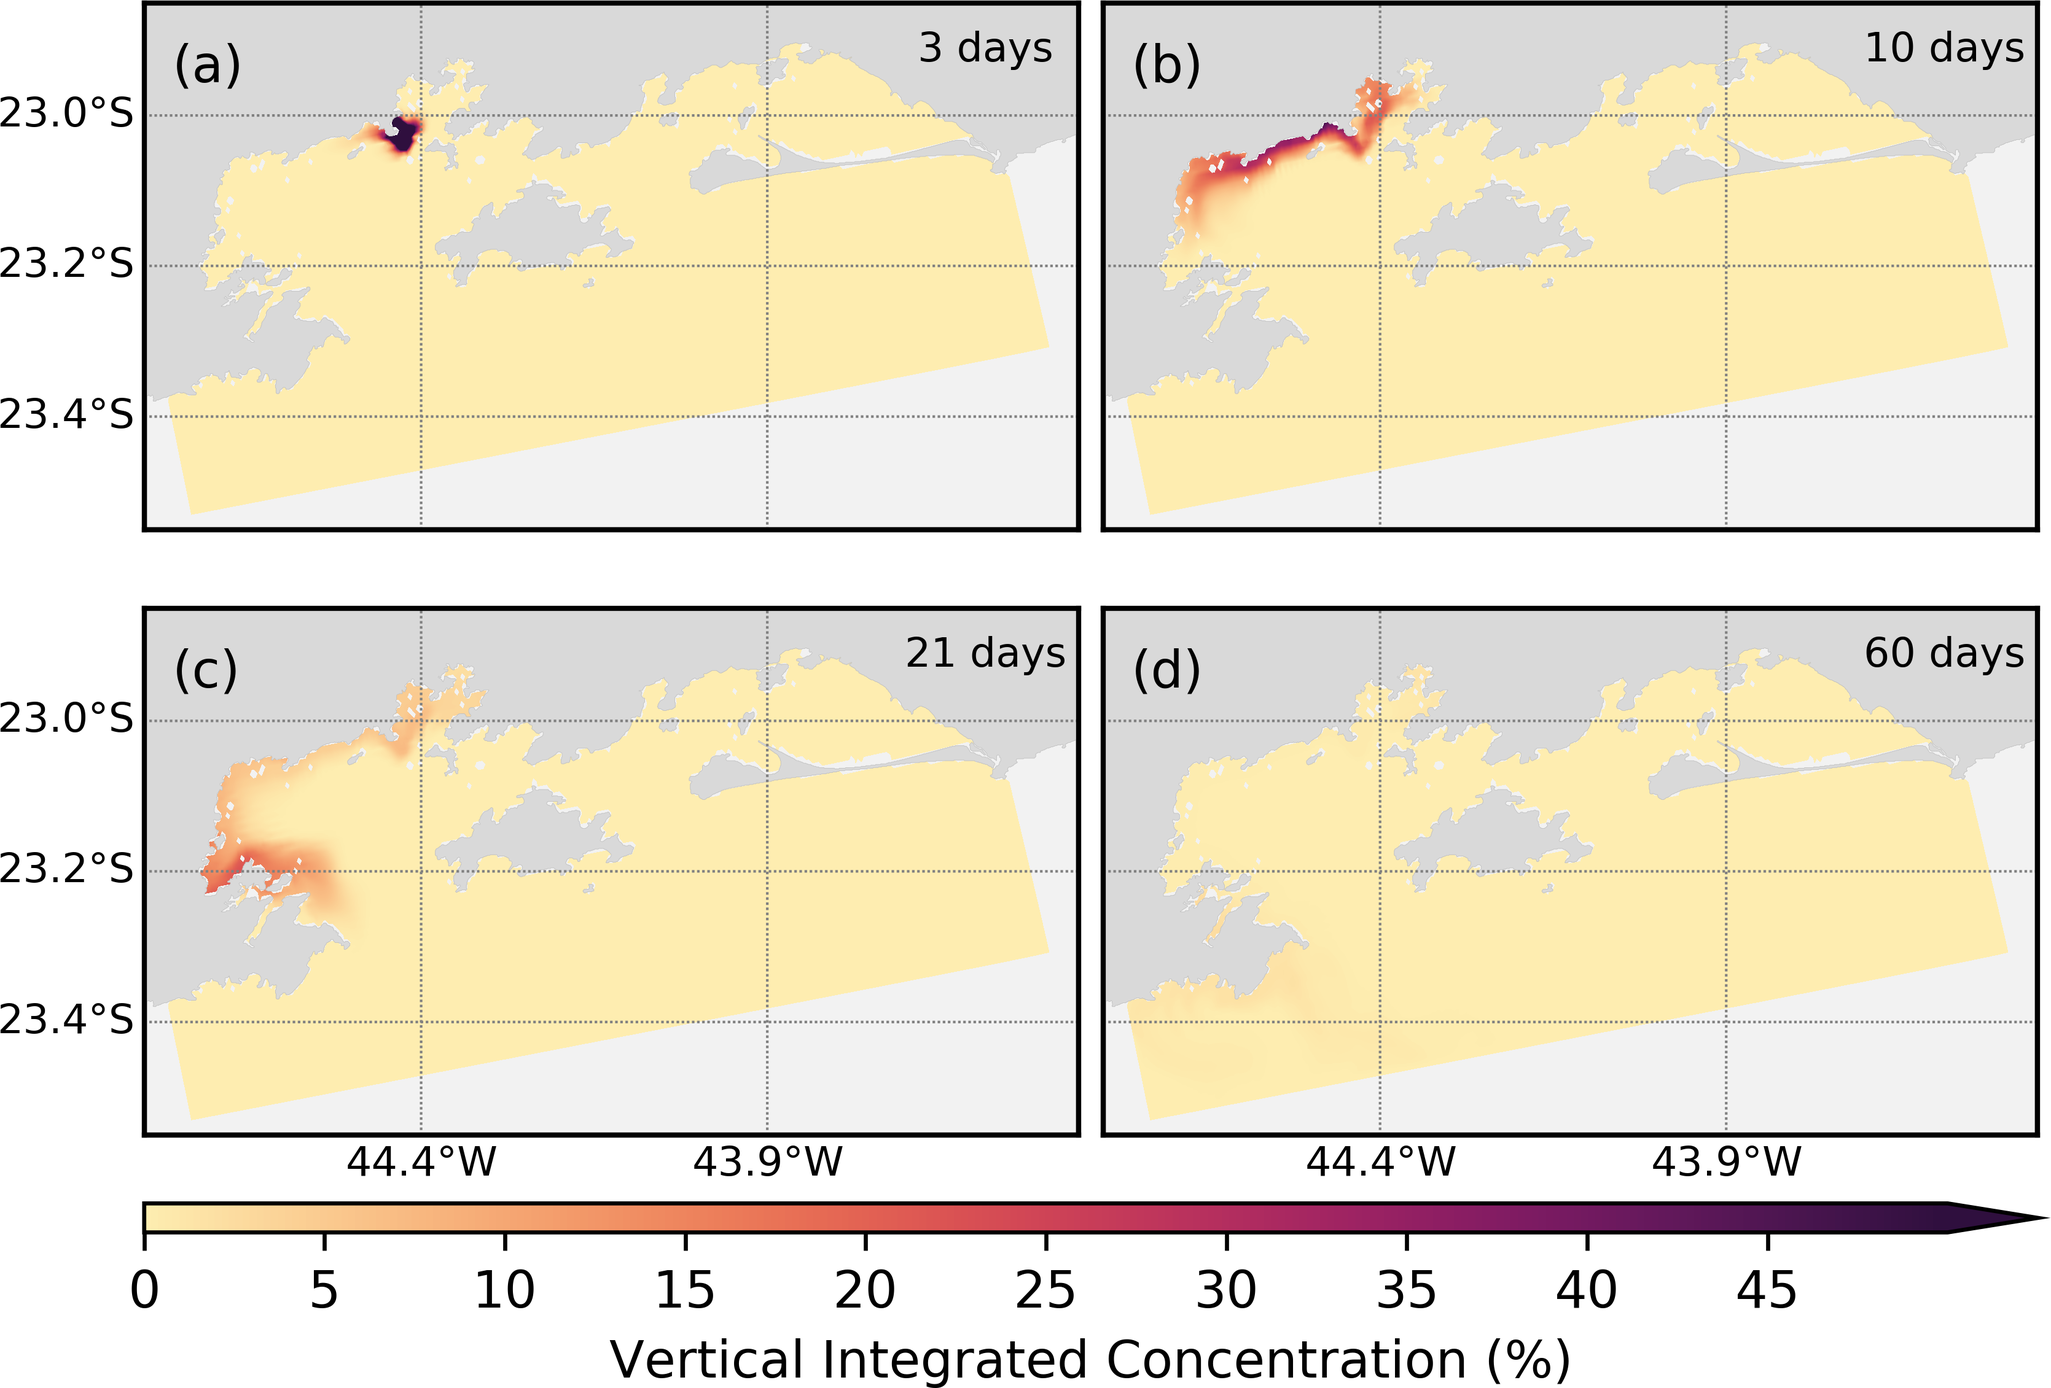
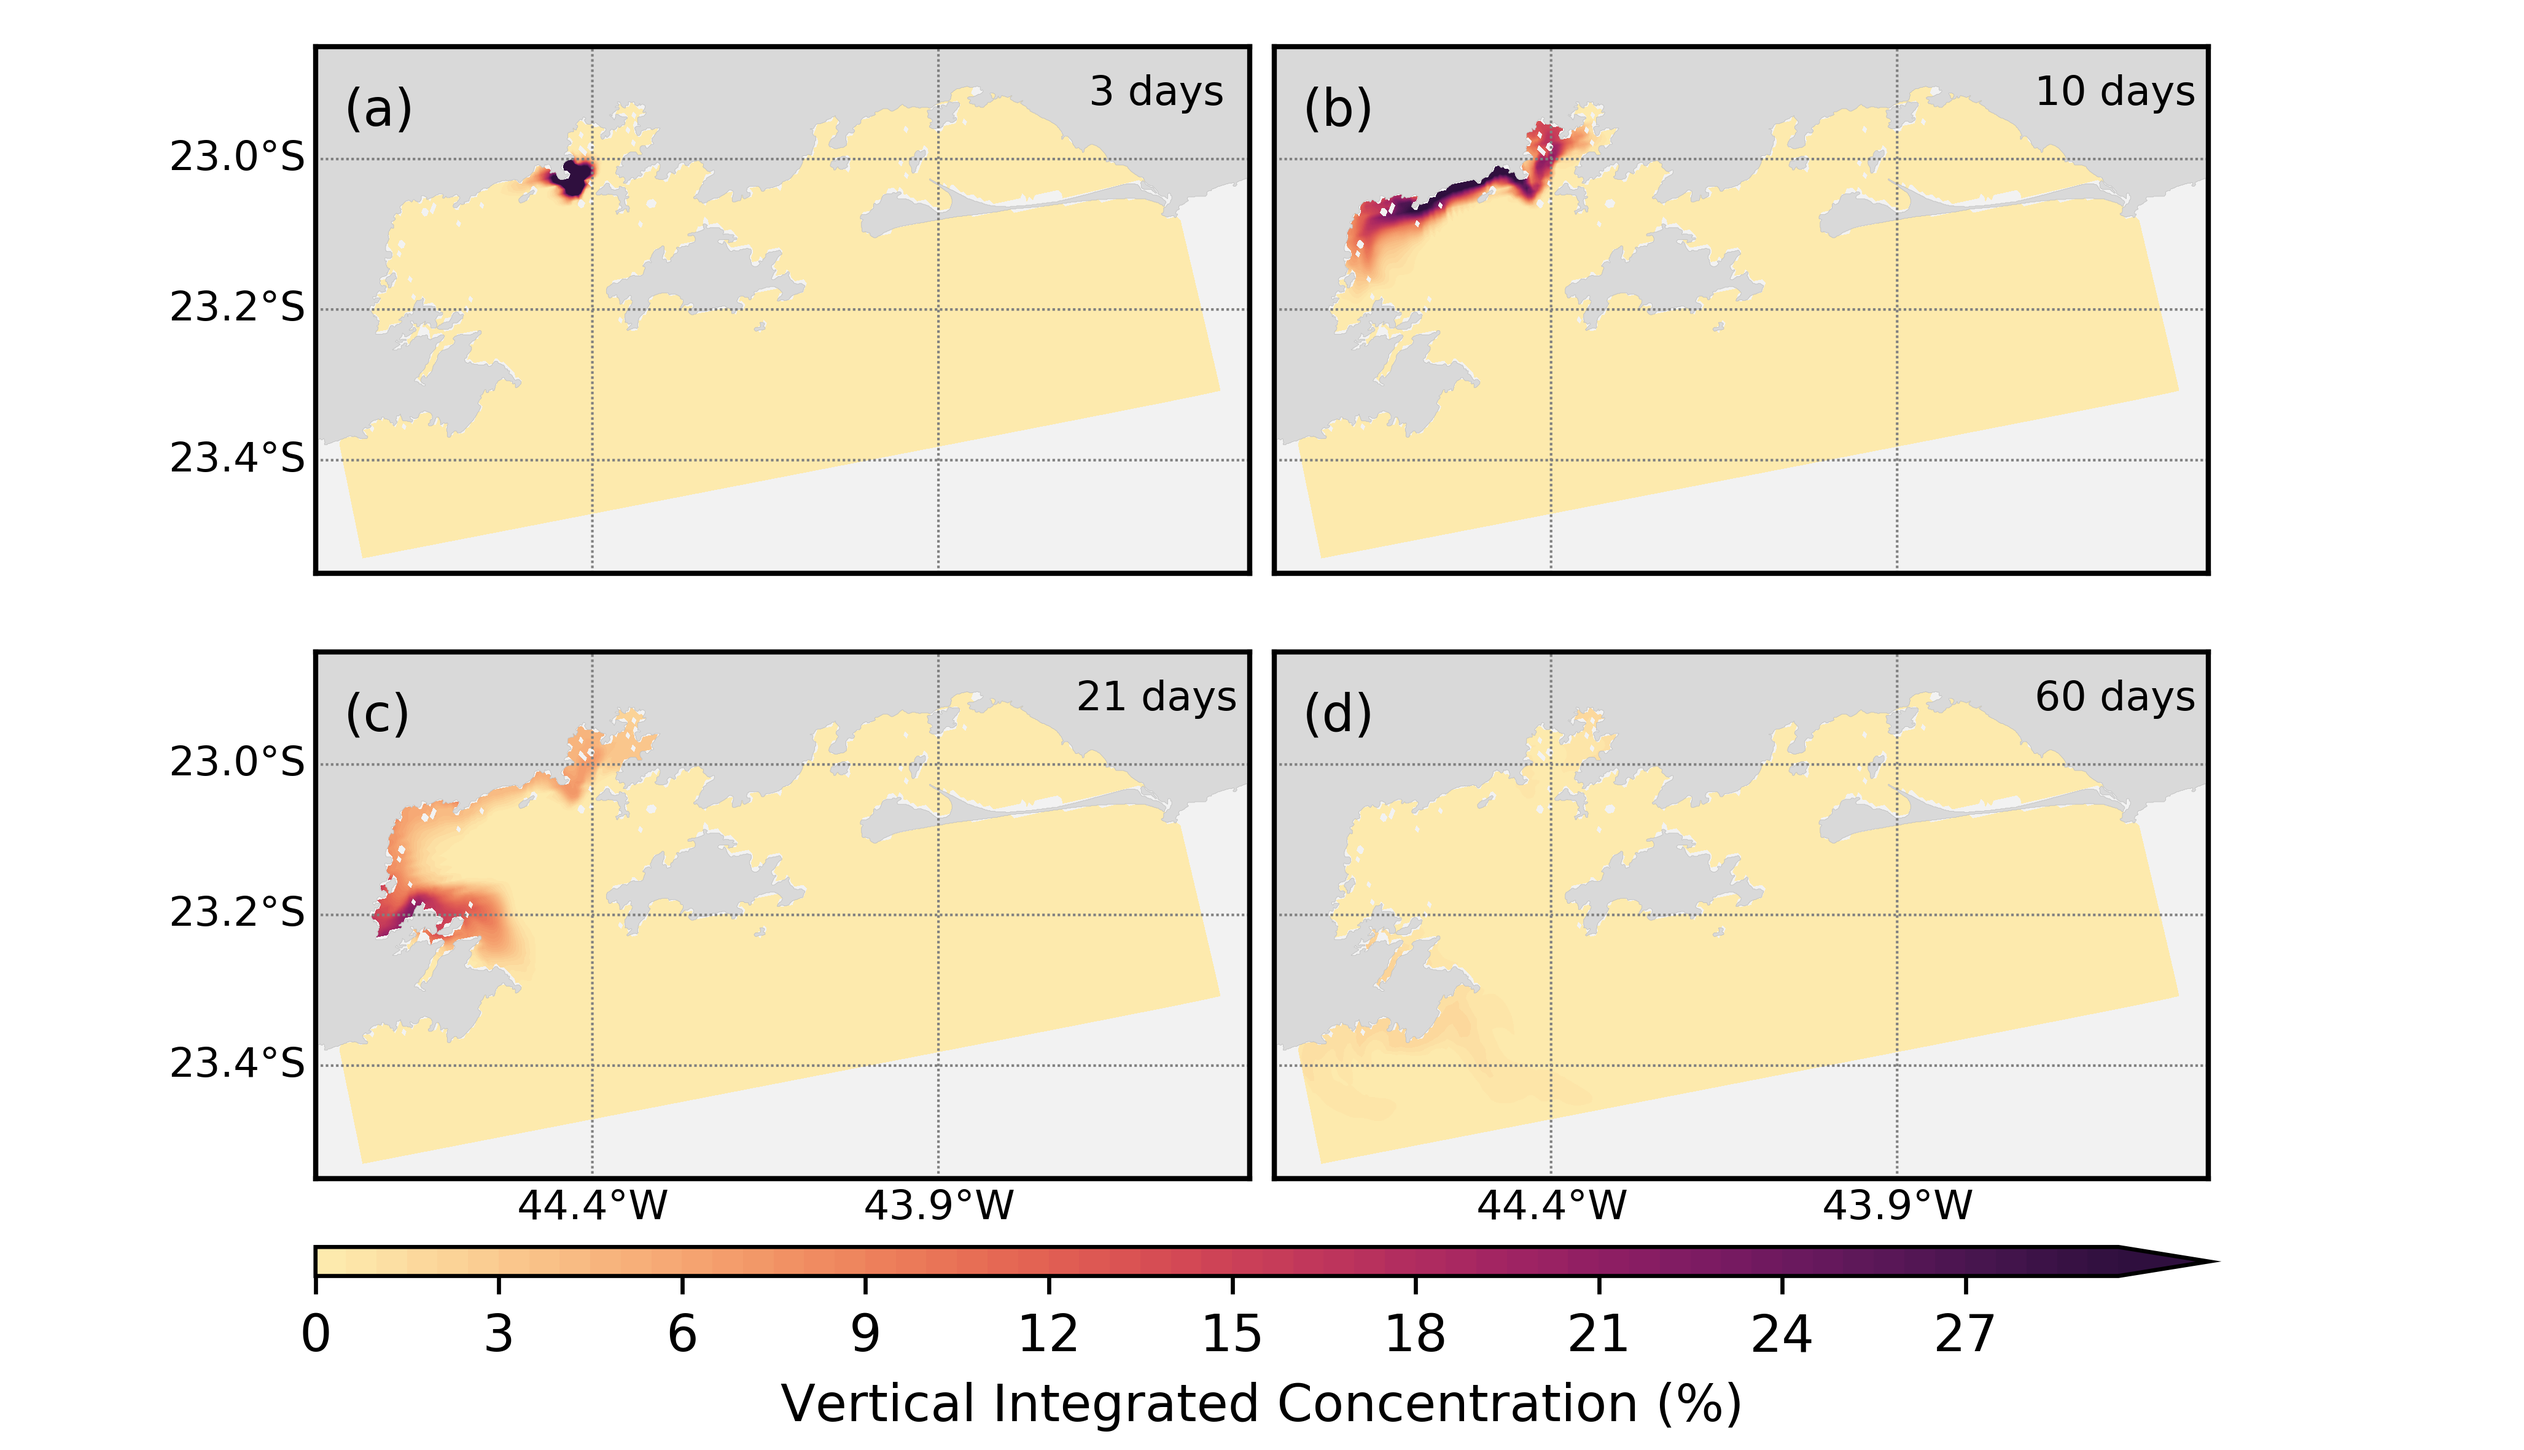
final conc figures

diff --git a/artigoTG/rotinas/fig3_expI.py b/artigoTG/rotinas/fig3_expI.py
@@ -475,7 +475,7 @@ class Experiment(object):
         self.conc4 = self.extract_concentration(timestep_4)*100
 
         # create contour_levels [0 to 100]
-        contour_levels = np.arange(0,50.,0.01)
+        contour_levels = np.arange(0,30.,0.5)
 
         # create structure
         self.m1,self.m2,self.m3,self.m4,self.cax = create_Figure_structure_4plots(figsize=self.figSize,resolution=self.resolution,cax_parameters=[0.125,0.12,0.75,0.02])
@@ -566,9 +566,9 @@ def fig5():
 def fig6():
     instantes = [3, 10, 21, 60]
     expIV = Experiment(DATA_DIR+"expIV.cdf",figsize=(17.4,10.))
-    expIV.resolution = 'f'
+    expIV.resolution = 'i'
     expIV.importVariables_basic()
-    expIV.figname = 'Fig6'
+    # expIV.figname = 'Fig6'
     expIV.subAdjust_top    = 0.995
     expIV.subAdjust_bottom = 0.160
     expIV.subAdjust_left   = 0.125
